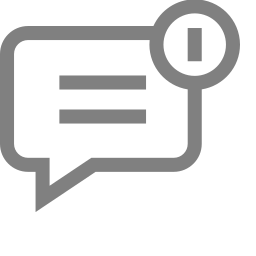
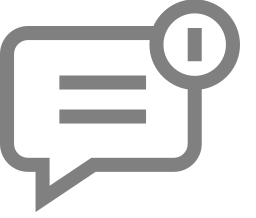
style: páginas e componentes para notificações

diff --git a/src/pages/DetalheNotificacao/DetalheNotificacao.jsx b/src/pages/DetalheNotificacao/DetalheNotificacao.jsx
@@ -1,0 +1,48 @@
+import './style.css'
+
+// components
+import Container from '../../components/Container/Container'
+import Header from '../../components/Header/Header'
+import Titulo from '../../components/Titulo/Titulo'
+import BotaoVoltar from '../../components/BotaoVoltar/BotaoVoltar'
+
+// assets
+
+export default function DetalheNotificacao() {
+
+  return (
+    <>
+      <main style={{ backgroundColor: '#e8e8e8', paddingBottom: '5rem', height: '100%' }}>
+        <Header />
+        <Container>
+
+          <BotaoVoltar />
+
+          <Titulo titulo={'Lendo notificação id #i018u481'} />
+
+          <section className='py-4 d-flex'>
+
+            <h4>Novo produto no catálogo! Venha conferir o “Calendário tema verde” da categoria enfeites de parede!</h4>
+
+            <p className='p-notificacao'>
+              ✨ Temos um novo produto anunciado no catálogo da Sala Mágica! Explore a novidade e deixe sua sala de aula ainda mais especial.
+            </p>
+
+            <p className='p-notificacao'>
+              Confira agora e não esqueça de curtir se gostar! 💖
+            </p>
+                        
+            <p className='p-notificacao'>
+              Acesse aqui:
+            </p>
+
+          </section>
+
+
+
+        </Container>
+
+      </main>
+    </>
+  )
+}

diff --git a/src/components/Header/Header.jsx b/src/components/Header/Header.jsx
@@ -5,13 +5,17 @@ import logo from '../../assets/material/logo1.png'
 import inicio from '../../assets/material/apps.png'
 import favorito from '../../assets/material/heart.png'
 import perfil from '../../assets/material/user.png'
+import notificacaoNone from '../../assets/material/notification-none.png'
+import notificacaoOn from '../../assets/material/notification-one.png'
+
+// imports
 import { Link } from 'react-router-dom'
 
 export default function Header() {
 
   return (
     <>
-      <nav className='navbar navbar-expand-lg align-items-center justify-content-center sticky-top'>
+      <nav className='navbar navbar-expand-lg align-items-center justify-content-center sticky-top shadow-sm'>
         <div id='header' className='container d-flex'>
           <div>
             <img className='logo' src={logo} />
@@ -31,6 +35,13 @@ export default function Header() {
               Perfil
             </Link>
           </div>
+
+          <div className='navbar-nav d-flex align-items-center gap-4'>
+            <Link to={'/notificacoes'} className="nav-link fonte-titulos">
+              <img src={notificacaoOn} className='me-2 mb-2 img-not' />
+            </Link>
+          </div>
+
         </div>
       </nav>
     </>

diff --git a/src/routes.jsx b/src/routes.jsx
@@ -15,6 +15,8 @@ import ScrollToTop from "./components/ScrollToTop";
 import RotaProtegidaUser from "./pages/RotaProtegidaUser";
 import RotaProtegidaAdmin from "./pages/RotaProtegidaAdmin";
 import PerfilRedirecionamento from "./pages/PerfilRedirecionamento";
+import Notificacoes from "./pages/Notificacoes/Notificacoes";
+import DetalheNotificacao from "./pages/DetalheNotificacao/DetalheNotificacao";
 
 export default function Rotas() {
   return (
@@ -43,7 +45,7 @@ export default function Rotas() {
 
         <Route path="/perfil"
           element={
-            <PerfilRedirecionamento/>         
+            <PerfilRedirecionamento />
           }
         />
 
@@ -110,6 +112,22 @@ export default function Rotas() {
         <Route path="/cadastrar"
           element={
             <Cadastrar />
+          }
+        />
+
+        <Route path="/notificacoes"
+          element={
+            <RotaProtegidaUser>
+              <Notificacoes />
+            </RotaProtegidaUser>
+          }
+        />
+
+        <Route path="/detalhe-notificacao"
+          element={
+            <RotaProtegidaUser>
+              <DetalheNotificacao />
+            </RotaProtegidaUser>
           }
         />
 

diff --git a/src/pages/Notificacoes/Notificacoes.jsx b/src/pages/Notificacoes/Notificacoes.jsx
@@ -1,0 +1,43 @@
+import './style.css'
+
+// components
+import Container from '../../components/Container/Container'
+import Header from '../../components/Header/Header'
+import Titulo from '../../components/Titulo/Titulo'
+import BotaoVoltar from '../../components/BotaoVoltar/BotaoVoltar'
+import NavNotificacoes from '../../components/NavNotifiacoes/NavNotifiacoes'
+import CardNotificacao from '../../components/CardNotificacao/CardNotificacao'
+
+// assets
+
+export default function Notificacoes() {
+
+  return (
+    <>
+      <main style={{ backgroundColor: '#e8e8e8', paddingBottom: '5rem', height: '100%' }}>
+        <Header />
+        <Container>
+
+          <BotaoVoltar />
+
+          <Titulo titulo={'Suas notificações'} />
+
+          <NavNotificacoes />
+
+          <section className='d-flex gap-3 justify-content-center'>
+
+            <CardNotificacao />
+            <CardNotificacao />
+            <CardNotificacao />
+            <CardNotificacao />
+            <CardNotificacao />
+
+          </section>
+
+
+        </Container>
+
+      </main>
+    </>
+  )
+}

diff --git a/src/components/CardNotificacao/CardNotificacao.jsx b/src/components/CardNotificacao/CardNotificacao.jsx
@@ -1,0 +1,30 @@
+import './style.css'
+
+// assets
+import imgNot from '../../assets/material/chat.png'
+
+// imports
+import { Link } from 'react-router-dom'
+
+export default function CardNotificacao() {
+  return (
+    <Link to={'/detalhe-notificacao'} className='nav-link card-notificacao d-flex rounded-2 p-4 align-items-center gap-2'>
+      
+      <div>
+        <img src={imgNot} alt="" className='img-newNot' />
+      </div>
+      
+      <div>
+        <span className='not-descri'>Novo produto no catálogo! Venha conferir o “Calendário tema verde” da categoria enfeites de parede!</span>
+      </div>
+      
+      <div class="form-check d-flex align-items-center">
+        <input class="form-check-input" type="checkbox" value="" id="flexCheckDefault" />
+        <label class="form-check-label ms-2 label-check" for="flexCheckDefault">
+          Marcar como lida
+        </label>
+      </div>
+
+    </Link>
+  )
+}

diff --git a/src/pages/Notificacoes/style.css b/src/pages/Notificacoes/style.css
@@ -1,0 +1,36 @@
+.input-cadastro-produto {
+  background-color: var(--cinzaTres);
+}
+
+.input-cadastro-produto:focus {
+  background-color: var(--cinzaTres);
+}
+
+.btn-opc {
+  all: unset;
+  text-decoration: none;
+  color: white;
+  font-weight: 600;
+  font-size: large;
+}
+
+.btn-opc:active,
+.btn-opc:focus {
+  outline: none;
+}
+
+.btn-azul {
+  background-color: var(--azulUm);
+  color: var(--azulDois);
+}
+
+.btn-azul:active,
+.btn-azul:focus {
+  background-color: var(--azulUm);
+  color: var(--azulDois);
+}
+
+.btn-azul:disabled {
+  cursor: not-allowed;
+  border: 0;
+}

diff --git a/src/components/NavNotifiacoes/NavNotifiacoes.jsx b/src/components/NavNotifiacoes/NavNotifiacoes.jsx
@@ -1,0 +1,11 @@
+import './style.css'
+
+export default function NavNotificacoes () {
+  return (
+    <div className="py-4 d-flex gap-4 justify-content-center align-items-center">
+      <span style={{color: 'var(--cinzaUm)'}} className="not-opcao">Não lidas</span>
+      <div style={{height: '2rem', background: 'var(--cinzaUm)', width: '3px'}} className="rounded-3"></div>
+      <span style={{color: 'var(--cinzaDois)'}} className="not-opcao">Lidas</span>
+    </div>
+  )
+}

diff --git a/src/components/Header/style.css b/src/components/Header/style.css
@@ -3,9 +3,9 @@
     display: none;
   }
 
-  #header {
-    justify-content: center;
-  }
+  /* #header {
+    justify-content: space-around;
+  } */
 }
 
 nav {
@@ -35,4 +35,8 @@ img {
 
 #link:hover {
   border-bottom: 2px solid var(--verdeDois);
+}
+
+.img-not {
+  height: 2rem;
 }

diff --git a/src/components/CardNotificacao/style.css b/src/components/CardNotificacao/style.css
@@ -1,0 +1,14 @@
+.img-newNot {
+  height: 2.5rem;
+}
+
+.card-notificacao {
+  border: 3px solid var(--cinzaDois);
+  cursor: pointer;
+}
+
+.not-descri {
+  font-weight: 600;
+  color: var(--cinzaDois);
+  font-size: large;
+}

diff --git a/src/pages/DetalheNotificacao/style.css b/src/pages/DetalheNotificacao/style.css
@@ -1,0 +1,5 @@
+.p-notificacao {
+  color: var(--cinzaUm);
+  font-size: large;
+  font-weight: 400;
+}

diff --git a/src/components/NavNotifiacoes/style.css b/src/components/NavNotifiacoes/style.css
@@ -1,0 +1,5 @@
+.not-opcao {
+  font-size: x-large;
+  font-weight: 600;
+  cursor: pointer;
+}
